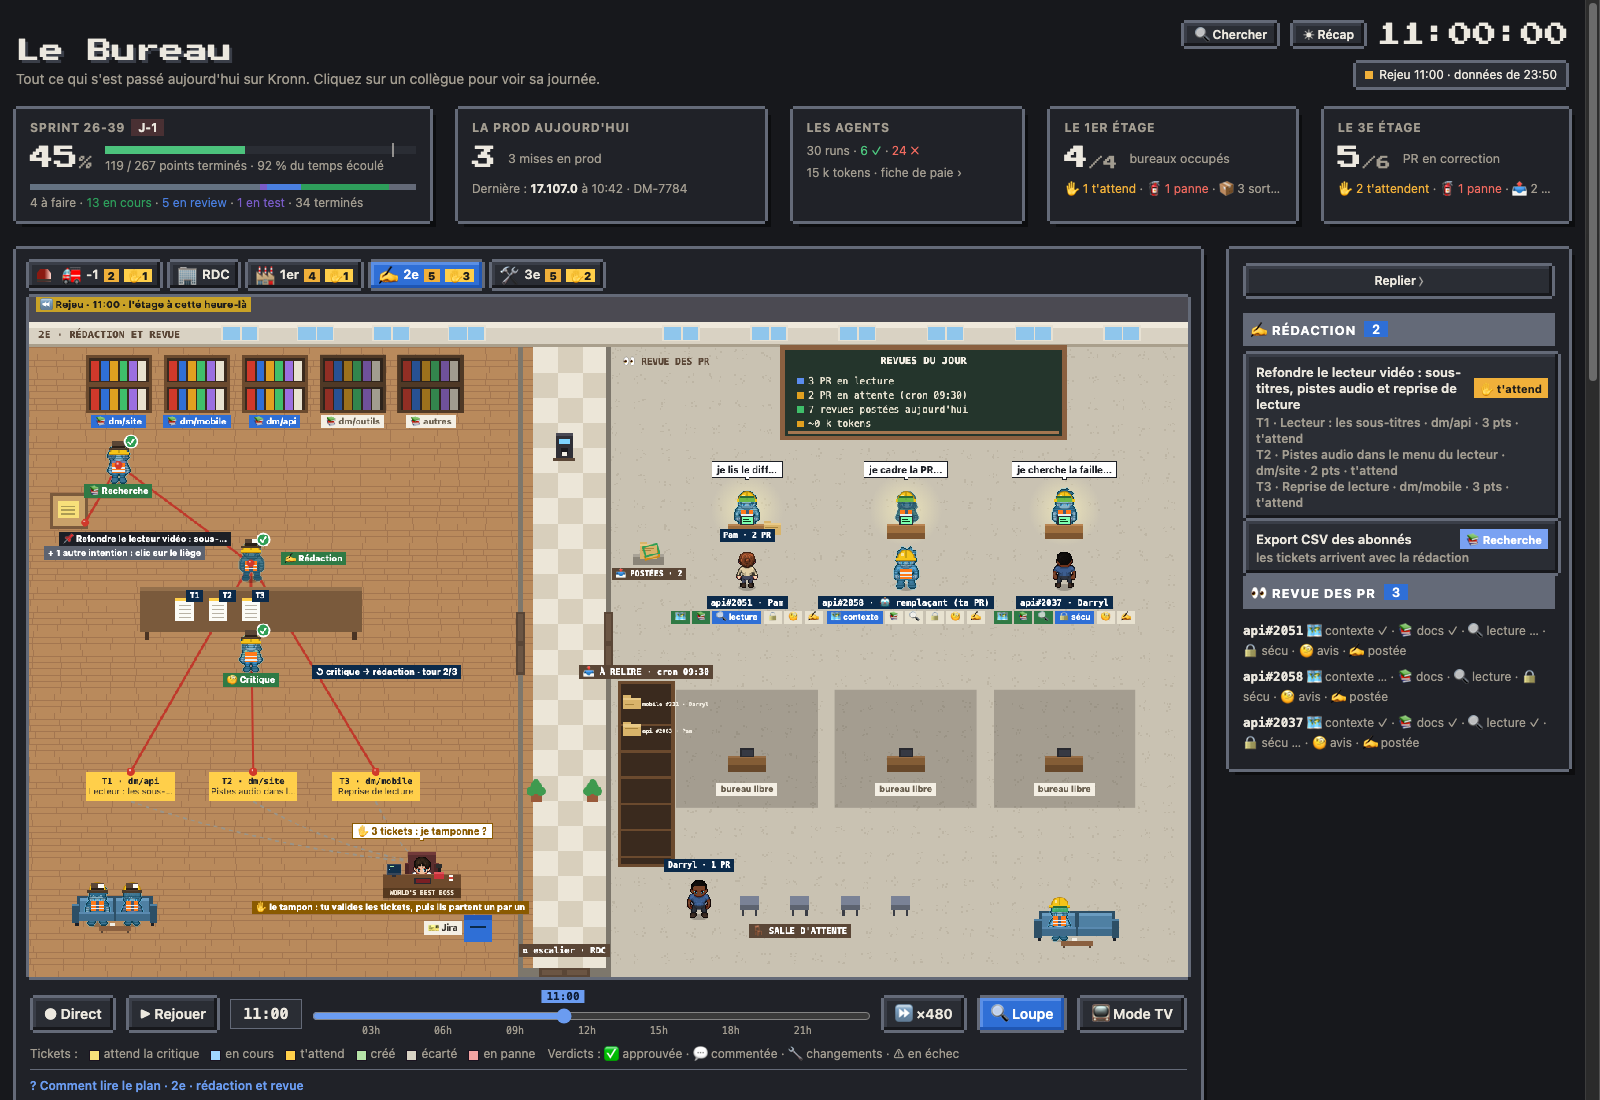
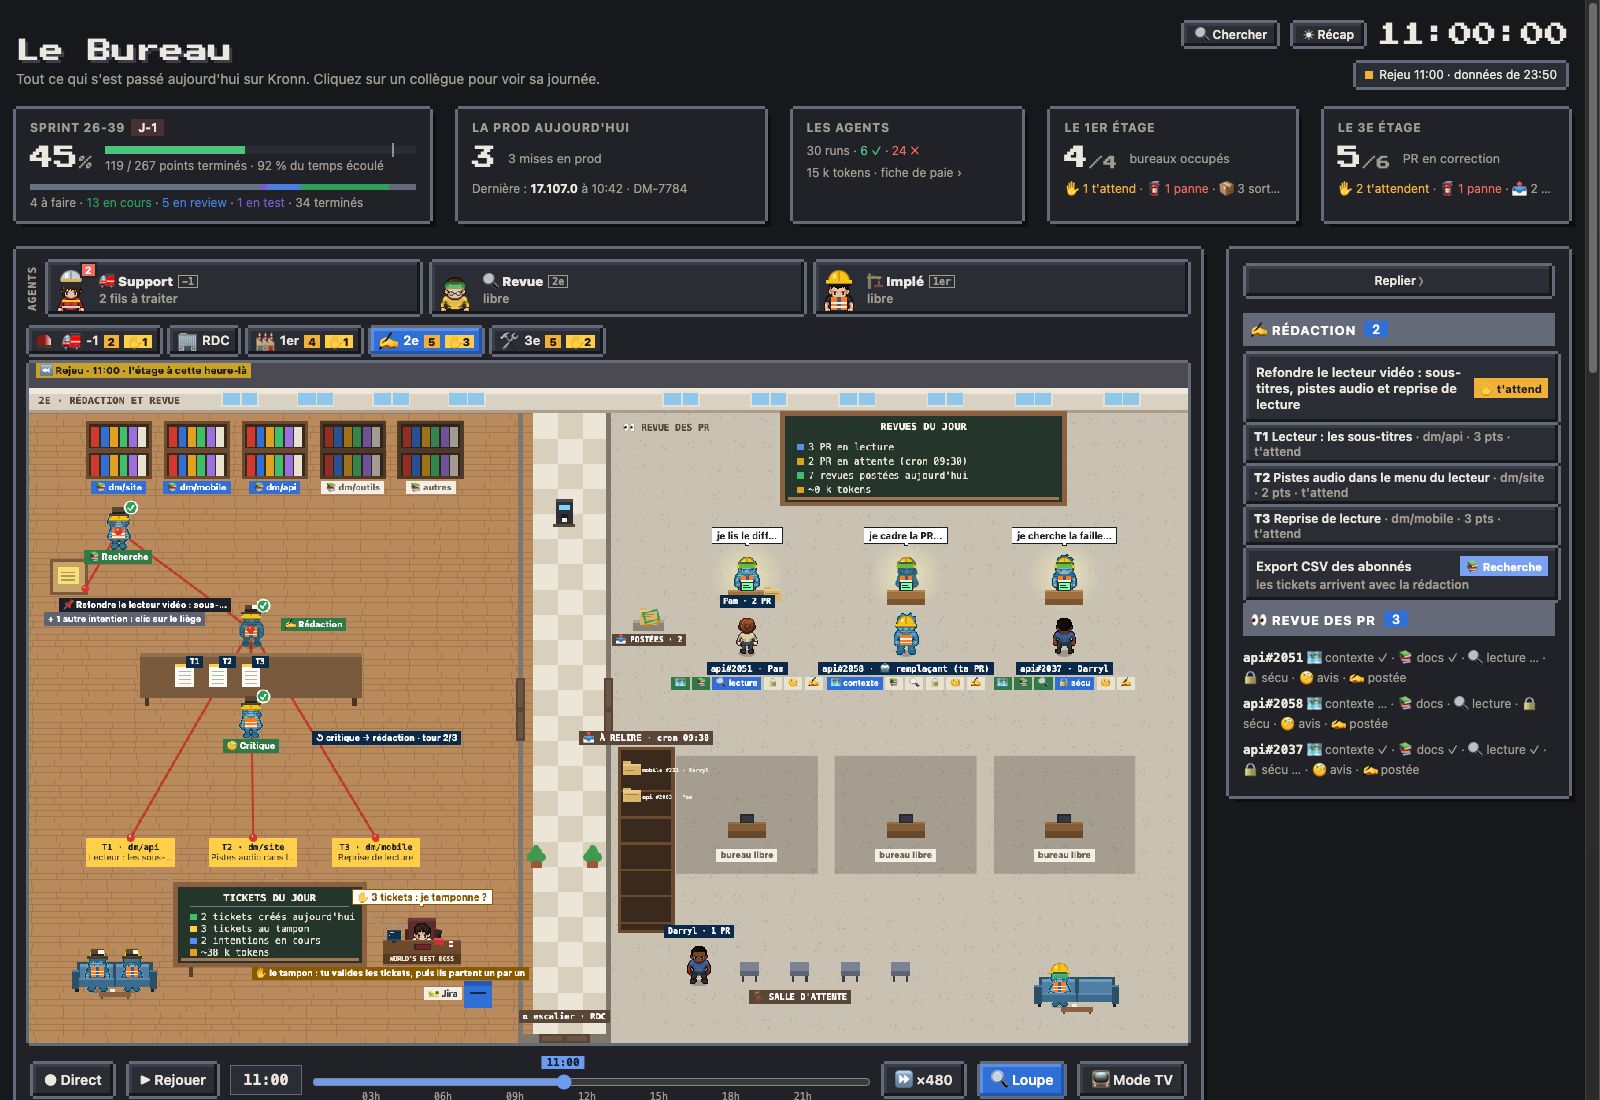
feat(redaction): le tableau noir des tickets du jour au 2e
Jumeau de REVUES DU JOUR, sur un chevalet entre les tickets épinglés et
le bureau du boss : les tickets créés depuis minuit, ceux qui attendent
ton tampon, les intentions en cours et les jetons du jour (tok_jour du
dataset redaction : les runs du modèle ticket lancés depuis minuit, le
run parent comptant ceux de ses postes). Rien au clic : l'historique est
dans la page « Rédaction · bilan ».

diff --git a/page/src/68-redaction.js b/page/src/68-redaction.js
@@ -7,7 +7,7 @@
 // bureau, le relecteur (visière verte de correcteur) derrière son écran et, en face, l'auteur de la PR (un agent
 // remplaçant pour ta PR ou celle de quelqu'un hors de l'équipe) ; sous le bureau, les postes de son run, lus du run
 // (🗺 contexte, 📚 docs, 🔍 lecture, 🔒 sécu : un sous-workflow review_<poste> chacun ; puis 🧐 avis et ✍ postée).
-// Au mur, le tableau noir des revues du jour. Le soir et le week-end, la veilleuse : seuls ceux au travail et le boss.
+// Au mur, le tableau noir des revues du jour ; dans la rédaction, son jumeau des tickets du jour, sur un chevalet. Le soir et le week-end, la veilleuse : seuls ceux au travail et le boss.
 // Données : dataset redaction (workflows/redaction_snapshot.py, cron live) et les runs de la revue (DATA.runs) ; démo : redactionDemo().
 const RD_POSTES=[{k:'recherche',i:'📚',n:'Recherche',d:'cherche ce que l\'intention touche, projet par projet'},{k:'redaction',i:'✍',n:'Rédaction',d:'écrit les tickets, un par projet touché'},
   {k:'critique',i:'🧐',n:'Critique',d:'relit les tickets et renvoie à la rédaction (trois tours au plus)'},{k:'valider',i:'✋',n:'Toi',d:'tu tamponnes chaque ticket, ou tu demandes des changements'}];
@@ -17,7 +17,7 @@ const RD_HELP={bar:()=>'<span>Tickets :</span>'+legSwatches(RD_TK)+'<span>Verdic
   postes:()=>[['Rédaction',RD_POSTES],['Revue d\'une PR',Object.values(RV_STEP).map(([l,,d])=>({i:l.split(' ')[0],n:l.slice(l.indexOf(' ')+1),d}))]],
   qui:'<p><b>Rédaction</b> : les agents en reporters, chapeau mou et carte de presse.</p><p><b>Revue</b> : les relecteurs à visière verte ; l\'auteur de la PR assis en face, de dos ; un agent remplaçant pour ta propre PR.</p>'+
     '<p><b>Bernard</b> monte la fournée du cron des revues. <b>Le boss</b> tamponne les tickets.</p>',
-  ou:'<p><b>Bibliothèques</b> : une par composant Jira. <b>La table</b> : une intention et ses tickets ; <b>le fil rouge</b> relie les postes qui y ont travaillé. <b>Le liège</b> : les autres intentions.</p>'+
+  ou:'<p><b>Bibliothèques</b> : une par composant Jira. <b>La table</b> : une intention et ses tickets ; <b>le fil rouge</b> relie les postes qui y ont travaillé. <b>Le liège</b> : les autres intentions. <b>Le tableau noir</b> : les tickets du jour (l\'historique : page « Rédaction · bilan »).</p>'+
     '<p><b>Casier « À relire »</b> : la file du cron, dans l\'ordre. <b>Corbeille « Postées »</b> : les avis du passage. <b>Six bureaux</b> de revue, le premier pour la file. <b>Salle d\'attente</b> : une chaise par auteur.</p>',
   moments:'<p><b>✋ Le tampon</b> : les tickets relus attendent ta validation, un par un.</p><p><b>✂ Le découpage</b> : une intention qui touche plusieurs projets devient plusieurs tickets, un brin de fil chacun.</p>'+
     '<p><b>📥 La fournée</b> : à chaque passage du cron des revues, Bernard range un dossier par PR dans le casier.</p>'};
@@ -42,7 +42,7 @@ function redactionDemo(){
   // la file de la revue : le cron de 9 h 30 a retenu 5 PR ; les deux de Holly sont postées, celle de Pam est lue (demo-r1)
   const revue={batches:{'demo-c1':[['dm/site',2042,'hollyflax'],['dm/site',2060,'hollyflax'],['dm/api',2051,'pambeesly'],['dm/mobile',311,'darrylphilbin'],['dm/api',2063,'pambeesly']]},
     verdicts:{'demo-k1':'comment','demo-k2':'approve'},starts:{'demo-c1':at(9.5)}};
-  return {generated_at:at(11),crees:2,revue,tables:[
+  return {generated_at:at(11),crees:2,tok_jour:38400,revue,tables:[
     {run:'demo-t1',status:'Running',since:at(10.2),intention:'Refondre le lecteur vidéo : sous-titres, pistes audio et reprise de lecture',poste:'critique',tour:2,
      composants:['dm/site','dm/mobile','dm/api'],type:'Story',tickets:[{i:0,summary:'Lecteur : les sous-titres',composant:'dm/api',points:3,etat:'wait',
        detail:'▸ De quoi on parle ?\n\n│ Les vidéos n\'ont pas de sous-titres : le lecteur ne lit pas les pistes WebVTT.\n\n▸ Qu\'est-ce que l\'on va faire ?\n\n• Servir les pistes WebVTT de chaque vidéo\n• Les déclarer dans le manifeste du lecteur\n\n▸ Comment on teste ?\n\n• Une vidéo avec deux pistes : les deux s\'affichent dans le menu'},
@@ -158,6 +158,24 @@ function rdRoom(now,people){
   rdBoss(people,tks,now);
   rdLate(people,()=>{R(ctx,jira.x-18,jira.y-30,36,30,'#2f6fd6');R(ctx,jira.x-18,jira.y-34,36,6,'#2559b8');R(ctx,jira.x-10,jira.y-20,20,3,'#0b2a4a');atPill('🎫 Jira',jira.x-44,jira.y-14,'#f4efe4','#3a3530','bold 11px system-ui,sans-serif');},jira.y);
   rdBench(people,3.4*T,24.6*T,[63,64],'presse');
+  rdBoard(people);
+}
+// le tableau noir des tickets du jour, jumeau de REVUES DU JOUR, sur un chevalet entre les tickets épinglés et le tampon
+// (rien au clic : le détail est dans la page « Rédaction · bilan ») ; créés et jetons depuis minuit : dataset redaction
+const RD_BOARD={x:5.9*RD_T,y:20.8*RD_T,w:7.3*RD_T,h:3*RD_T};
+function rdTicketsDuJour(){
+  const d=REDACTION||{};
+  return {crees:d.crees||0,tampon:rdTables().reduce((a,t)=>a+(t.tickets||[]).filter(x=>x.etat==='gate').length,0),cours:rdTables().length,tok:d.tok_jour||0};
+}
+function rdBoard(people){
+  const {x:bx,y:by,w:bw,h:bh}=RD_BOARD, j=rdTicketsDuJour();
+  // sous le bandeau du tampon (dessiné à la hauteur du bureau du boss) : ses pieds passent derrière
+  rdLate(people,()=>{R(ctx,bx+14,by+bh,5,18,'#5a3e28');R(ctx,bx+bw-19,by+bh,5,18,'#5a3e28');R(ctx,bx+bw/2-2,by+bh,4,12,'#4a3424');
+    R(ctx,bx-6,by-6,bw+12,bh+12,'#8a6040');R(ctx,bx,by,bw,bh,'#24352c');R(ctx,bx+4,by+bh-6,bw-8,4,'#a37650');
+    atTxt('TICKETS DU JOUR',bx+bw/2,by+18,'#f4efe4','bold 13px ui-monospace,Menlo,monospace');R(ctx,bx+16,by+24,bw-32,1,'rgba(244,239,228,.4)');
+    [['#3fbf6a',plural(j.crees,'ticket créé','tickets créés')+' aujourd\'hui'],['#ffcf4a',plural(j.tampon,'ticket','tickets')+' au tampon'],
+     ['#5b8def',plural(j.cours,'intention en cours','intentions en cours')],['#e0a020','~'+Math.round(j.tok/1e3)+' k tokens']]
+      .forEach(([c,t],k)=>{R(ctx,bx+16,by+34+k*15,8,8,c);atTxt(t,bx+30,by+42+k*15,'#e8e2d0','12px ui-monospace,Menlo,monospace','left');});},RD_DESK.y-1);
 }
 function rdBoss(people,tks,now){
   const {x,y}=RD_DESK, boss=chars.find(c=>c.boss), g=tks.filter(t=>t.etat==='gate').length;

diff --git a/tests/test_ticket_chain.py b/tests/test_ticket_chain.py
@@ -178,7 +178,8 @@ class RedactionSnapshotTest(unittest.TestCase):
         Path(tmp, "r1", "tickets.json").write_text(json.dumps({"version": 2, "tickets": [{"summary": "A", "composant": "dm/site", "points": 3,
                                                                                         "description": "h2. Contexte\n{panel}\nLe lecteur\n{panel}\n* sous-titres"},
                                                                                        {"summary": "B", "composant": "dm/api", "points": 2}]}))
-        api = {"/workflows/tk/runs?limit=20": [{"id": "r1", "status": "Running", "started_at": "2026-10-30T09:00:00Z"}],
+        api = {"/workflows/tk/runs?limit=20": [{"id": "r1", "status": "Running", "started_at": "2026-10-30T09:00:00Z", "tokens_used": 21000},
+                                               {"id": "r0", "status": "Success", "started_at": "2026-10-29T22:30:00Z", "tokens_used": 5000}],
                "/workflows/tk/runs/r1": {"id": "r1", "workflow_id": "tk", "status": "WaitingApproval", "started_at": "2026-10-30T09:00:00Z",
                                           "step_results": [{"step_name": "dossier"}, {"step_name": "recherche"}, {"step_name": "relire", "started_at": "2026-10-30T09:31:00Z"}]},
                "/workflows/un/runs?limit=40": []}
@@ -194,9 +195,10 @@ class RedactionSnapshotTest(unittest.TestCase):
         t = snap["tables"][0]
         self.assertEqual((t["poste"], t["tour"], t["intention"]), ("valider", 2, "Refondre le lecteur"))
         self.assertEqual([(x["summary"], x["etat"]) for x in t["tickets"]], [("A", "gate"), ("B", "gate")])
-        self.assertEqual([e["k"] for e in snap["events"]], ["arrive", "gate"])
+        self.assertEqual([e["k"] for e in snap["events"]], ["arrive", "arrive", "gate"], "r0 (la veille) arrive aussi")
         self.assertEqual(t["tickets"][0]["detail"], "▸ Contexte\n│ Le lecteur\n• sous-titres")  # le texte lisible, pour la fiche au 2e
         self.assertNotIn("detail", t["tickets"][1])
+        self.assertEqual(snap["tok_jour"], 21000, "les jetons depuis minuit à Paris (le run de 23 h 30 la veille ne compte pas)")
 
 
 class RevueFileTest(unittest.TestCase):

diff --git a/workflows/redaction_snapshot.py b/workflows/redaction_snapshot.py
@@ -3,7 +3,7 @@ ticket (models.ticket_un), lus dans l'API Kronn, et le dossier de chaque run (~/
 écrit par ticket.py) ; 0 token ; stdout JSON du dataset redaction (cron live).
 
   {generated_at, tables: [{run, status, since, intention, type, parent, poste, tour, composants, tickets: [{i, summary,
-                           composant, points, etat: wait|run|gate|ok|ecarte|err, detail}], url}], events: [{t, k: arrive|gate|cree|fin, run}], crees}
+                           composant, points, etat: wait|run|gate|ok|ecarte|err, detail}], url}], events: [{t, k: arrive|gate|cree|fin, run}], crees, tok_jour}
 
 detail : la description du ticket en texte lisible (readable de _lib : ▸ titres, │ panneaux, • puces), pour la fiche du
 ticket au clic au 2e ; DETAIL_MAX caractères chacun, DETAIL_BUDGET en tout (la sortie d'une étape Exec reste sous 100 Ko).
@@ -160,6 +160,8 @@ def snapshot(now_iso=None):
     out["events"] = sorted([e for e in ev if e["t"]], key=lambda e: e["t"])
     midnight = now.astimezone(TZ).replace(hour=0, minute=0, second=0, microsecond=0) if now else None
     out["crees"] = sum(1 for e in out["events"] if e["k"] == "cree" and (not midnight or when(e["t"]) >= midnight))
+    # le tableau des tickets du jour : les jetons des intentions lancées depuis minuit (le run parent compte ceux de ses postes)
+    out["tok_jour"] = sum(int(r.get("tokens_used") or 0) for r in runs if not midnight or (when(r.get("started_at")) or midnight) >= midnight)
     return out
 
 

diff --git a/guide/fonctionnalites/28-redaction.md b/guide/fonctionnalites/28-redaction.md
@@ -15,6 +15,7 @@ Le bouton « ✍ 2e » (la rédaction et la revue, au survol) apparaît entre le
 - **Le fil rouge** part de ton intention, punaisée au liège, passe par la recherche et la rédaction, puis se divise en un brin par ticket quand l'intention est découpée. Une carte par ticket, à sa couleur : attend la critique, en cours, t'attend, créé, écarté.
 - **Le bureau du boss** (un pack d'équipe peut donner au boss un dessin pour cet étage, `redaction_sprite` dans le roster, par exemple en libraire qui lit à son bureau), celui du RDC (« WORLD'S BEST BOSS »), le tampon et son encreur posés dessus : le boss y est toujours assis, et tamponne la liste des tickets (« ✋ 3 tickets : je tamponne ? ») ; tes « Changements » renvoient à la rédaction. Les tickets partent ensuite un par un : les brins des tickets créés vont jusqu'à la boîte Jira.
 - **Le banc**, en bas à gauche, pour les reporters qui ne travaillent pas, comme au 1er.
+- **Le tableau noir des tickets du jour**, sur un chevalet devant le bureau du boss : les tickets créés depuis minuit, ceux qui attendent ton tampon, les intentions en cours, les jetons du jour. L'historique est dans la page « [Rédaction · bilan](30-redaction-bilan.md) ».
 - Jusqu'à trois intentions en même temps : la table montre la plus ancienne, un clic sur le liège passe à la suivante.
 - **La fiche d'un ticket** : un clic sur sa carte à la table, ou sur sa ligne dans le panneau, ouvre ce qui sera créé pour lui seul. On y voit le titre, le type, les points, le composant, l'épic et la description en texte lisible, avec la carte du tampon dessous. « ← Les tickets » ramène à la liste. Le tampon ne montre que le récap de la liste dès qu'elle est longue.
 
